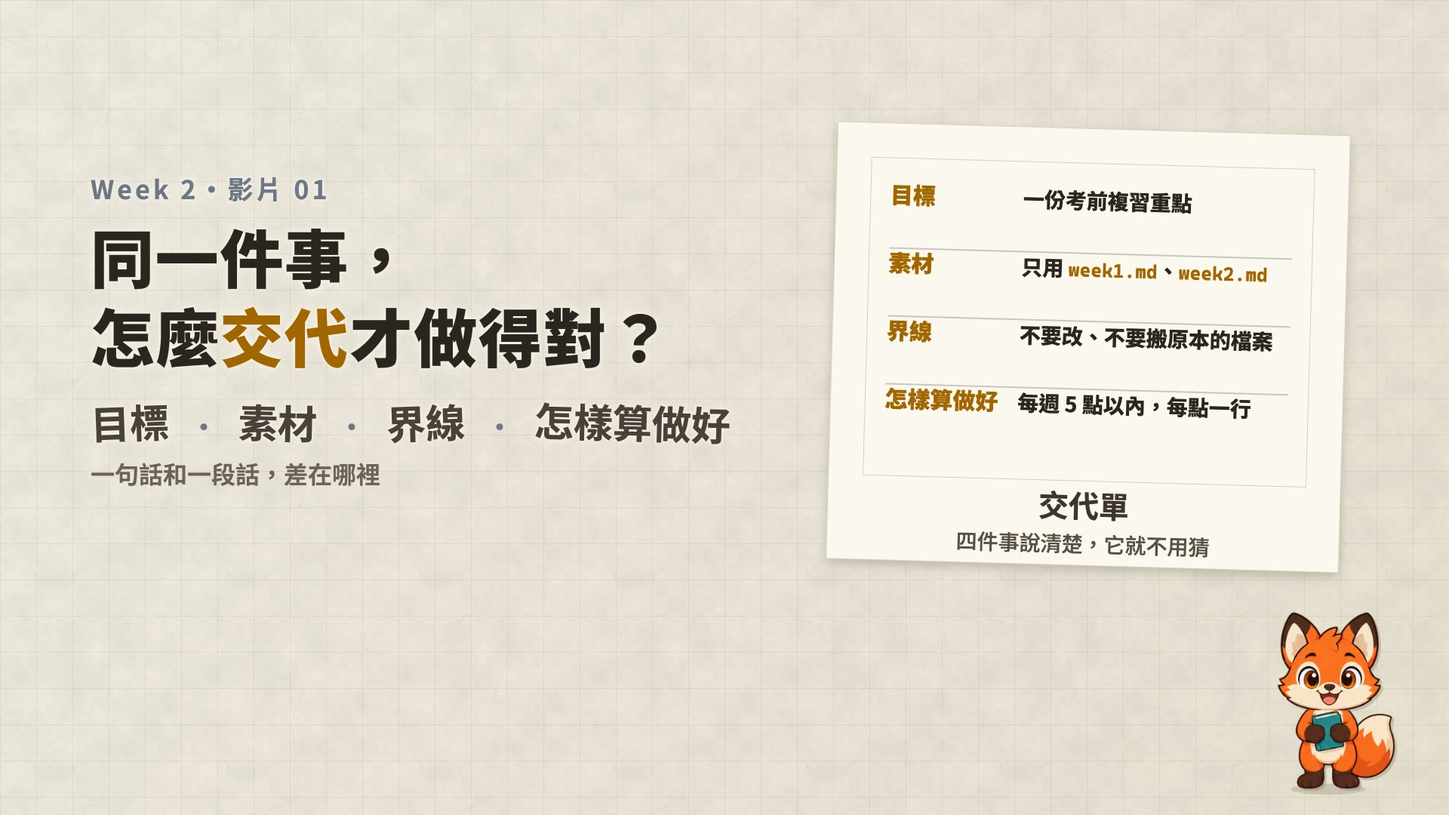
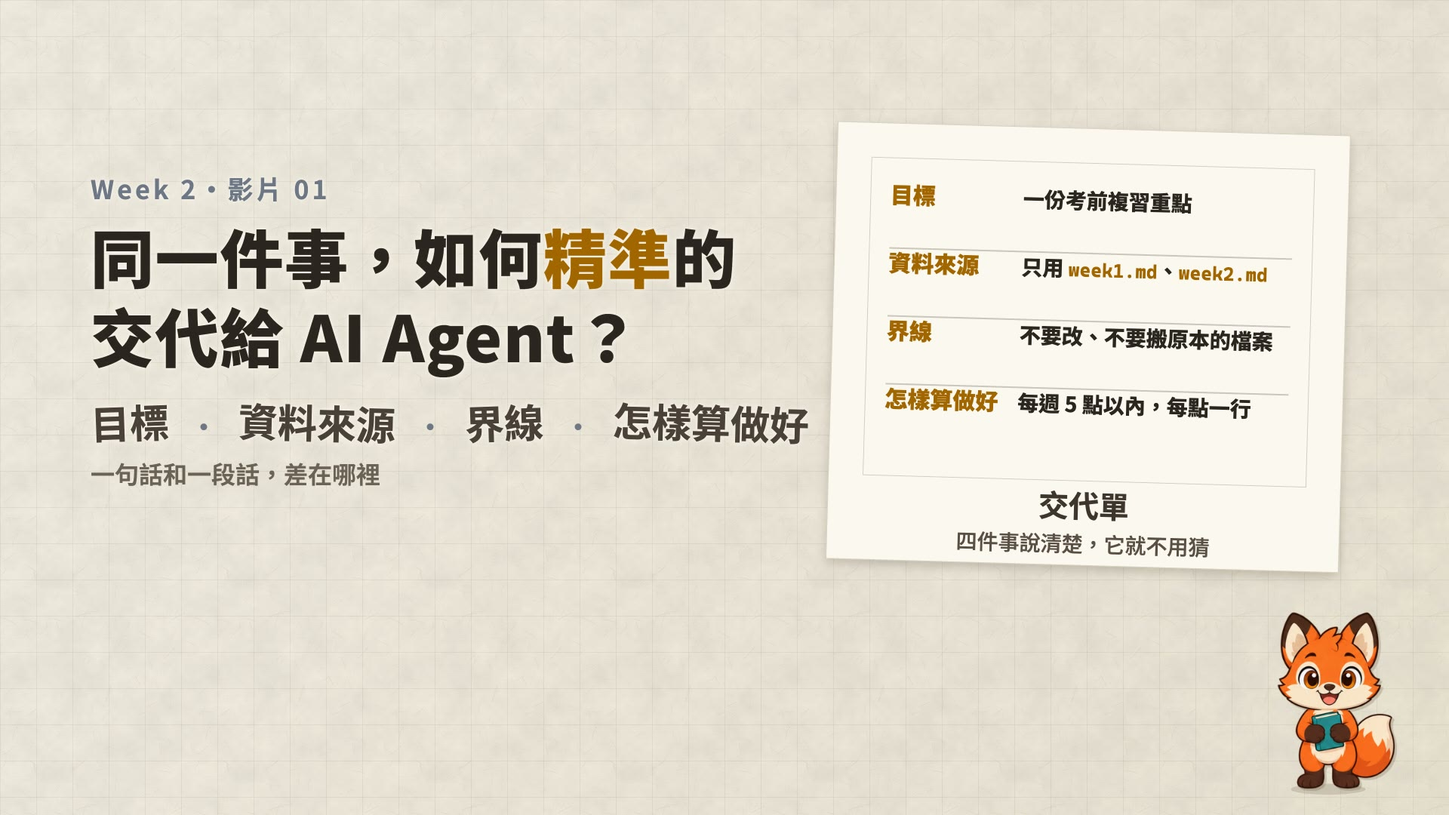
Week 2 round 2: video 01 renamed 'How do you instruct an AI agent precisely?', 'data sources' instead of 'materials', a beat on whether its sources were right; extra 1 smaller unsaved dot; extra 2 explains 5-hour and weekly limits and the Free Plan's monthly quota; 7 min 15 s

Changed region(s): [[0.0625, 0.275, 0.5312, 0.4583], [0.1562, 0.4889, 0.5625, 0.55], [0.5938, 0.3056, 0.6875, 0.3361]]

diff --git a/weeks/week02/index.html b/weeks/week02/index.html
@@ -13,10 +13,10 @@
   data-zh-hans="Week 2｜开始用 Codex"
   data-en="Week 2 | Getting Started with Codex"
   data-vi="Tuần 2 | Bắt đầu dùng Codex">Week 2｜開始用 Codex</title>
-<meta name="description" content="Week 2：開始用 Codex。交代清楚四件事（目標、素材、界線、怎樣算做好），它就不用猜；它動你的電腦之前會先問你，看懂再按，密碼和別人的個資不要交給它。補充：用 VS Code 看、改 AI 寫的 .md，以及 AI 為什麼會說錯。" data-i18n-attr="content"
-  data-zh-hans="Week 2：开始用 Codex。交代清楚四件事（目标、素材、界线、怎样算做好），它就不用猜；它动你的电脑之前会先问你，看懂再按，密码和别人的个人资料不要交给它。补充：用 VS Code 看、改 AI 写的 .md，以及 AI 为什么会说错。"
-  data-en="Week 2: getting started with Codex. State four things clearly (goal, materials, limits, what counts as done) and it does not have to guess; before it acts on your computer it asks you first, so read before you approve, and never hand it passwords or other people&#x27;s personal data. Extras: reading and editing the .md files AI writes in VS Code, and why AI gets things wrong."
-  data-vi="Tuần 2: bắt đầu dùng Codex. Nói rõ bốn điều (mục tiêu, tư liệu, giới hạn, thế nào là xong) thì nó không phải đoán; trước khi tác động lên máy tính, nó sẽ hỏi bạn trước, hãy đọc hiểu rồi mới bấm, và đừng đưa nó mật khẩu hay dữ liệu cá nhân của người khác. Bổ sung: xem và sửa các tệp .md do AI viết bằng VS Code, và vì sao AI nói sai.">
+<meta name="description" content="Week 2：開始用 Codex。交代清楚四件事（目標、資料來源、界線、怎樣算做好），它就不用猜；它動你的電腦之前會先問你，看懂再按，密碼和別人的個資不要交給它。補充：用 VS Code 看、改 AI 寫的 .md，以及 AI 為什麼會說錯。" data-i18n-attr="content"
+  data-zh-hans="Week 2：开始用 Codex。交代清楚四件事（目标、资料来源、界线、怎样算做好），它就不用猜；它动你的电脑之前会先问你，看懂再按，密码和别人的个人资料不要交给它。补充：用 VS Code 看、改 AI 写的 .md，以及 AI 为什么会说错。"
+  data-en="Week 2: getting started with Codex. State four things clearly (goal, data sources, limits, what counts as done) and it does not have to guess; before it acts on your computer it asks you first, so read before you approve, and never hand it passwords or other people&#x27;s personal data. Extras: reading and editing the .md files AI writes in VS Code, and why AI gets things wrong."
+  data-vi="Tuần 2: bắt đầu dùng Codex. Nói rõ bốn điều (mục tiêu, nguồn dữ liệu, giới hạn, thế nào là xong) thì nó không phải đoán; trước khi tác động lên máy tính, nó sẽ hỏi bạn trước, hãy đọc hiểu rồi mới bấm, và đừng đưa nó mật khẩu hay dữ liệu cá nhân của người khác. Bổ sung: xem và sửa các tệp .md do AI viết bằng VS Code, và vì sao AI nói sai.">
 <meta name="author" content="JUNHAO CHEN">
 <meta name="copyright" content="© 2026 JUNHAO CHEN">
 <link rel="preconnect" href="https://fonts.googleapis.com">
@@ -49,9 +49,9 @@
         data-en="Getting Started with Codex"
         data-vi="Bắt đầu dùng Codex">開始用 Codex</h1>
       <p class="lede" data-i18n
-        data-zh-hans="Codex 已经装好了，这周开始真的用它。先学怎么交代：同一件事，说清楚四件事（目标、素材、界线、怎样算做好），它就不用猜，你验收也有标准。再学它动你的电脑之前会先问你：看懂它在问什么再按，刚开始用 Ask for approval，密码和别人的个人资料不要交给它。两个补充：用 VS Code 看、改 AI 写的 .md 文件，以及 AI 为什么会很有把握地说错。"
-        data-en="Codex is installed, so this week you start using it for real. First, how to ask: for any task, state four things clearly (goal, materials, limits, what counts as done) so it does not have to guess and you have a standard to check against. Then, before it acts on your computer it asks you first: understand what it is asking before you approve, start with Ask for approval, and never hand it passwords or other people&#x27;s personal data. Two extras: reading and editing the .md files AI writes in VS Code, and why AI can be confidently wrong."
-        data-vi="Codex đã cài xong, tuần này bắt đầu dùng thật. Trước hết là cách dặn việc: với cùng một việc, nói rõ bốn điều (mục tiêu, tư liệu, giới hạn, thế nào là xong) thì nó không phải đoán, và bạn cũng có tiêu chuẩn để nghiệm thu. Sau đó, trước khi tác động lên máy tính, nó sẽ hỏi bạn trước: hiểu nó đang hỏi gì rồi mới bấm, lúc đầu hãy dùng Ask for approval, và đừng đưa nó mật khẩu hay dữ liệu cá nhân của người khác. Hai phần bổ sung: xem và sửa các tệp .md do AI viết bằng VS Code, và vì sao AI có thể nói sai một cách rất tự tin.">Codex 已經裝好了，這週開始真的用它。先學怎麼交代：同一件事，說清楚四件事（目標、素材、界線、怎樣算做好），它就不用猜，你驗收也有標準。再學它動你的電腦之前會先問你：看懂它在問什麼再按，剛開始用 Ask for approval，密碼和別人的個資不要交給它。兩支補充：用 VS Code 看、改 AI 寫的 .md 檔，以及 AI 為什麼會很有把握地說錯。</p>
+        data-zh-hans="Codex 已经装好了，这周开始真的用它。先学怎么交代：同一件事，说清楚四件事（目标、资料来源、界线、怎样算做好），它就不用猜，你验收也有标准。再学它动你的电脑之前会先问你：看懂它在问什么再按，刚开始用 Ask for approval，密码和别人的个人资料不要交给它。两个补充：用 VS Code 看、改 AI 写的 .md 文件，以及 AI 为什么会很有把握地说错。"
+        data-en="Codex is installed, so this week you start using it for real. First, how to ask: for any task, state four things clearly (goal, data sources, limits, what counts as done) so it does not have to guess and you have a standard to check against. Then, before it acts on your computer it asks you first: understand what it is asking before you approve, start with Ask for approval, and never hand it passwords or other people&#x27;s personal data. Two extras: reading and editing the .md files AI writes in VS Code, and why AI can be confidently wrong."
+        data-vi="Codex đã cài xong, tuần này bắt đầu dùng thật. Trước hết là cách dặn việc: với cùng một việc, nói rõ bốn điều (mục tiêu, nguồn dữ liệu, giới hạn, thế nào là xong) thì nó không phải đoán, và bạn cũng có tiêu chuẩn để nghiệm thu. Sau đó, trước khi tác động lên máy tính, nó sẽ hỏi bạn trước: hiểu nó đang hỏi gì rồi mới bấm, lúc đầu hãy dùng Ask for approval, và đừng đưa nó mật khẩu hay dữ liệu cá nhân của người khác. Hai phần bổ sung: xem và sửa các tệp .md do AI viết bằng VS Code, và vì sao AI có thể nói sai một cách rất tự tin.">Codex 已經裝好了，這週開始真的用它。先學怎麼交代：同一件事，說清楚四件事（目標、資料來源、界線、怎樣算做好），它就不用猜，你驗收也有標準。再學它動你的電腦之前會先問你：看懂它在問什麼再按，剛開始用 Ask for approval，密碼和別人的個資不要交給它。兩支補充：用 VS Code 看、改 AI 寫的 .md 檔，以及 AI 為什麼會很有把握地說錯。</p>
       <p class="lang-note" data-ui="video.note"></p>
     </div>
 
@@ -61,9 +61,9 @@
 
     <section class="unit" id="01-clear-ask" aria-labelledby="u01-title">
       <h2 class="unit-title" id="u01-title"><span class="unit-num" data-ui="video.n" data-n="01">影片 01</span><span data-i18n
-        data-zh-hans="同一件事，怎么交代才做得对？目标、素材、界线、怎样算做好"
-        data-en="One Task: How Do You Ask So It Gets Done Right? Goal, Materials, Limits, What Counts as Done"
-        data-vi="Cùng một việc, dặn thế nào để làm đúng? Mục tiêu, tư liệu, giới hạn, thế nào là xong">同一件事，怎麼交代才做得對？目標、素材、界線、怎樣算做好</span></h2>
+        data-zh-hans="同一件事，如何精准地交代给 AI Agent？"
+        data-en="One Task: How Do You Instruct an AI Agent Precisely?"
+        data-vi="Cùng một việc, làm sao giao việc thật chính xác cho AI Agent?">同一件事，如何精準的交代給 AI Agent？</span></h2>
 
       <div class="film">
         <div class="player">
@@ -75,27 +75,28 @@
 
       <ol class="chapters" aria-label="影片片段（點了直接跳到那一段）" data-ui-attr="aria-label:video.chapters">
         <li><button type="button" data-t="0"><span class="k">00:00</span><span class="t" data-i18n data-zh-hans="开场" data-en="Opening" data-vi="Mở đầu">開場</span></button></li>
-        <li><button type="button" data-t="7"><span class="k">00:07</span><span class="t" data-i18n data-zh-hans="一句话：它只能用猜的" data-en="One sentence: it can only guess" data-vi="Một câu: nó chỉ có thể đoán">一句話：它只能用猜的</span></button></li>
-        <li><button type="button" data-t="24"><span class="k">00:24</span><span class="t" data-i18n data-zh-hans="它搬了文件，连期末报告也改了" data-en="It moved files and even changed the final report" data-vi="Nó chuyển tệp, sửa luôn cả báo cáo cuối kỳ">它搬了檔案，連期末報告也改了</span></button></li>
-        <li><button type="button" data-t="31"><span class="k">00:31</span><span class="t" data-i18n data-zh-hans="交代清楚：四件事" data-en="Asking clearly: four things" data-vi="Dặn rõ ràng: bốn điều">交代清楚：四件事</span></button></li>
-        <li><button type="button" data-t="39"><span class="k">00:39</span><span class="t" data-i18n data-zh-hans="交代 Codex，也是同样的四件事" data-en="Asking Codex takes the same four things" data-vi="Dặn Codex cũng là bốn điều đó">交代 Codex，也是同樣的四件事</span></button></li>
-        <li><button type="button" data-t="47"><span class="k">00:47</span><span class="t" data-i18n data-zh-hans="怎样算做好：你验收的标准" data-en="What counts as done: your standard for checking" data-vi="Thế nào là xong: tiêu chuẩn để bạn nghiệm thu">怎樣算做好：你驗收的標準</span></button></li>
-        <li><button type="button" data-t="54"><span class="k">00:54</span><span class="t" data-i18n data-zh-hans="一段话：它照你的意思做" data-en="One paragraph: it does what you meant" data-vi="Một đoạn: nó làm đúng ý bạn">一段話：它照你的意思做</span></button></li>
-        <li><button type="button" data-t="76"><span class="k">01:16</span><span class="t" data-i18n data-zh-hans="只多了一个文件，原本的都没动" data-en="Only one new file; the originals are untouched" data-vi="Chỉ thêm một tệp, các tệp cũ không bị đụng">只多了一個檔案，原本的都沒動</span></button></li>
-        <li><button type="button" data-t="82"><span class="k">01:22</span><span class="t" data-i18n data-zh-hans="验收：用你说的标准" data-en="Check it against the standard you set" data-vi="Nghiệm thu theo tiêu chuẩn bạn đặt">驗收：用你說的標準</span></button></li>
-        <li><button type="button" data-t="103"><span class="k">01:43</span><span class="t" data-i18n data-zh-hans="怎样算做好，由你决定" data-en="You decide what counts as done" data-vi="Thế nào là xong, do bạn quyết định">怎樣算做好，由你決定</span></button></li>
-        <li><button type="button" data-t="106"><span class="k">01:46</span><span class="t" data-i18n data-zh-hans="结尾" data-en="Wrap-up" data-vi="Kết">結尾</span></button></li>
+        <li><button type="button" data-t="7"><span class="k">00:07</span><span class="t" data-i18n data-zh-hans="如果只说一句话：AI 只能用猜的" data-en="Just one sentence: the AI can only guess" data-vi="Nếu chỉ nói một câu: AI chỉ có thể đoán">如果只說一句話：AI 只能用猜的</span></button></li>
+        <li><button type="button" data-t="25"><span class="k">00:25</span><span class="t" data-i18n data-zh-hans="它搬了文件，连期末报告也改了" data-en="It moved files and even changed the final report" data-vi="Nó chuyển tệp, sửa luôn cả báo cáo cuối kỳ">它搬了檔案，連期末報告也改了</span></button></li>
+        <li><button type="button" data-t="32"><span class="k">00:32</span><span class="t" data-i18n data-zh-hans="资料整理的来源正确吗？" data-en="Were the sources it used even right?" data-vi="Nguồn dữ liệu nó dùng có đúng không?">資料整理的來源正確嗎？</span></button></li>
+        <li><button type="button" data-t="39"><span class="k">00:39</span><span class="t" data-i18n data-zh-hans="交代清楚：四件事" data-en="Asking clearly: four things" data-vi="Dặn rõ ràng: bốn điều">交代清楚：四件事</span></button></li>
+        <li><button type="button" data-t="46"><span class="k">00:46</span><span class="t" data-i18n data-zh-hans="交代 Codex，也是同样的四件事" data-en="Asking Codex takes the same four things" data-vi="Dặn Codex cũng là bốn điều đó">交代 Codex，也是同樣的四件事</span></button></li>
+        <li><button type="button" data-t="54"><span class="k">00:54</span><span class="t" data-i18n data-zh-hans="怎样算做好：你验收的标准" data-en="What counts as done: your standard for checking" data-vi="Thế nào là xong: tiêu chuẩn để bạn nghiệm thu">怎樣算做好：你驗收的標準</span></button></li>
+        <li><button type="button" data-t="61"><span class="k">01:01</span><span class="t" data-i18n data-zh-hans="一段话：它照你的意思做" data-en="One paragraph: it does what you meant" data-vi="Một đoạn: nó làm đúng ý bạn">一段話：它照你的意思做</span></button></li>
+        <li><button type="button" data-t="83"><span class="k">01:23</span><span class="t" data-i18n data-zh-hans="只多了一个文件，原本的都没动" data-en="Only one new file; the originals are untouched" data-vi="Chỉ thêm một tệp, các tệp cũ không bị đụng">只多了一個檔案，原本的都沒動</span></button></li>
+        <li><button type="button" data-t="90"><span class="k">01:30</span><span class="t" data-i18n data-zh-hans="验收：用你说的标准" data-en="Check it against the standard you set" data-vi="Nghiệm thu theo tiêu chuẩn bạn đặt">驗收：用你說的標準</span></button></li>
+        <li><button type="button" data-t="111"><span class="k">01:51</span><span class="t" data-i18n data-zh-hans="怎样算做好，由你决定" data-en="You decide what counts as done" data-vi="Thế nào là xong, do bạn quyết định">怎樣算做好，由你決定</span></button></li>
+        <li><button type="button" data-t="114"><span class="k">01:54</span><span class="t" data-i18n data-zh-hans="结尾" data-en="Wrap-up" data-vi="Kết">結尾</span></button></li>
       </ol>
 
       <ol class="points">
         <li><p data-i18n
-          data-zh-hans="&lt;strong&gt;一句话，它只能用猜的。&lt;/strong&gt;小安要准备考试，跟 Codex 说“帮我整理笔记”。“整理”是什么意思，它不知道，只能自己猜：把文件搬进 &lt;code&gt;整理/&lt;/code&gt;、改了标题和格式，连期末报告草稿都一起改了。小安要的，其实是一份考前复习重点。"
-          data-en="&lt;strong&gt;With one sentence, it can only guess.&lt;/strong&gt; Preparing for an exam, Xiao An tells Codex “Organise my notes.” What does “organise” mean? It does not know, so it guesses: it moves the files into &lt;code&gt;整理/&lt;/code&gt;, rewrites their headings and format, and even changes the final report draft. What Xiao An actually wanted was one set of revision notes for the exam."
-          data-vi="&lt;strong&gt;Chỉ một câu, nó đành phải đoán.&lt;/strong&gt; Tiểu An chuẩn bị thi, nói với Codex “Sắp xếp ghi chú giúp mình”. “Sắp xếp” nghĩa là gì, nó không biết, nên tự đoán: chuyển các tệp vào &lt;code&gt;整理/&lt;/code&gt;, sửa tiêu đề và định dạng, sửa luôn cả bản nháp báo cáo cuối kỳ. Thứ Tiểu An thật sự cần là một bản tóm tắt ôn thi."><strong>一句話，它只能用猜的。</strong>小安要準備考試，跟 Codex 說「幫我整理筆記」。「整理」是什麼意思，它不知道，只能自己猜：把檔案搬進 <code>整理/</code>、改了標題和格式，連期末報告草稿都一起改了。小安要的，其實是一份考前複習重點。</p></li>
+          data-zh-hans="&lt;strong&gt;一句话，它只能用猜的。&lt;/strong&gt;小安要准备考试，跟 Codex 说“帮我整理笔记”。“整理”是什么意思，它不知道，只能自己猜：把文件搬进 &lt;code&gt;整理/&lt;/code&gt;、改了标题和格式，连期末报告草稿都一起改了。它读的文件里还有期末报告草稿：我们甚至不能肯定，资料整理的来源是否正确。小安要的，其实是一份考前复习重点。"
+          data-en="&lt;strong&gt;With one sentence, it can only guess.&lt;/strong&gt; Preparing for an exam, Xiao An tells Codex “Organise my notes.” What does “organise” mean? It does not know, so it guesses: it moves the files into &lt;code&gt;整理/&lt;/code&gt;, rewrites their headings and format, and even changes the final report draft. It also read the final report draft, so we cannot even be sure the sources behind its notes are right. What Xiao An actually wanted was one set of revision notes for the exam."
+          data-vi="&lt;strong&gt;Chỉ một câu, nó đành phải đoán.&lt;/strong&gt; Tiểu An chuẩn bị thi, nói với Codex “Sắp xếp ghi chú giúp mình”. “Sắp xếp” nghĩa là gì, nó không biết, nên tự đoán: chuyển các tệp vào &lt;code&gt;整理/&lt;/code&gt;, sửa tiêu đề và định dạng, sửa luôn cả bản nháp báo cáo cuối kỳ. Nó còn đọc cả bản nháp báo cáo cuối kỳ, nên ta thậm chí không chắc nguồn dữ liệu nó dùng để tổng hợp có đúng không. Thứ Tiểu An thật sự cần là một bản tóm tắt ôn thi."><strong>一句話，它只能用猜的。</strong>小安要準備考試，跟 Codex 說「幫我整理筆記」。「整理」是什麼意思，它不知道，只能自己猜：把檔案搬進 <code>整理/</code>、改了標題和格式，連期末報告草稿都一起改了。它讀的檔案裡還有期末報告草稿：我們甚至不能肯定，資料整理的來源是否正確。小安要的，其實是一份考前複習重點。</p></li>
         <li><p data-i18n
-          data-zh-hans="&lt;strong&gt;交代清楚四件事。&lt;/strong&gt;目标（要做出什么）、素材（用什么、在哪里）、界线（什么不能碰）、怎样算做好（你等一下怎么验收）。就像请朋友帮你买午餐：一个排骨便当、钱在这里、不要辣、12:10 前放我桌上。交代 Codex 也是同样的四件事。"
-          data-en="&lt;strong&gt;State four things clearly.&lt;/strong&gt; The goal (what to make), the materials (what to use and where it is), the limits (what must not be touched) and what counts as done (how you will check it). It is like asking a friend to buy you lunch: a pork chop bento, here is the money, not spicy, on my desk by 12:10. Asking Codex takes the same four things."
-          data-vi="&lt;strong&gt;Nói rõ bốn điều.&lt;/strong&gt; Mục tiêu (làm ra cái gì), tư liệu (dùng gì, ở đâu), giới hạn (cái gì không được đụng) và thế nào là xong (lát nữa bạn nghiệm thu thế nào). Giống như nhờ bạn mua cơm trưa: một hộp cơm sườn, tiền đây, đừng cay, đặt lên bàn mình trước 12:10. Dặn Codex cũng là bốn điều đó."><strong>交代清楚四件事。</strong>目標（要做出什麼）、素材（用什麼、在哪裡）、界線（什麼不能碰）、怎樣算做好（你等一下怎麼驗收）。就像請朋友幫你買午餐：一個排骨便當、錢在這裡、不要辣、12:10 前放我桌上。交代 Codex 也是同樣的四件事。</p></li>
+          data-zh-hans="&lt;strong&gt;交代清楚四件事。&lt;/strong&gt;目标（要做出什么）、资料来源（用哪些资料、在哪里）、界线（什么不能碰）、怎样算做好（你等一下怎么验收）。就像请朋友帮你买午餐：一个排骨便当、去校门口那家买、不要辣、12:10 前放我桌上。交代 Codex 也是同样的四件事。"
+          data-en="&lt;strong&gt;State four things clearly.&lt;/strong&gt; The goal (what to make), the data sources (which data to use and where it is), the limits (what must not be touched) and what counts as done (how you will check it). It is like asking a friend to buy you lunch: a pork chop bento, from the shop by the school gate, not spicy, on my desk by 12:10. Asking Codex takes the same four things."
+          data-vi="&lt;strong&gt;Nói rõ bốn điều.&lt;/strong&gt; Mục tiêu (làm ra cái gì), nguồn dữ liệu (dùng dữ liệu nào, ở đâu), giới hạn (cái gì không được đụng) và thế nào là xong (lát nữa bạn nghiệm thu thế nào). Giống như nhờ bạn mua cơm trưa: một hộp cơm sườn, mua ở quán cổng trường, đừng cay, đặt lên bàn mình trước 12:10. Dặn Codex cũng là bốn điều đó."><strong>交代清楚四件事。</strong>目標（要做出什麼）、資料來源（用哪些資料、在哪裡）、界線（什麼不能碰）、怎樣算做好（你等一下怎麼驗收）。就像請朋友幫你買午餐：一個排骨便當、去校門口那家買、不要辣、12:10 前放我桌上。交代 Codex 也是同樣的四件事。</p></li>
         <li><p data-i18n
           data-zh-hans="&lt;strong&gt;一段话，它照你的意思做。&lt;/strong&gt;四件事一件一行：“帮我做一份考前复习重点，存成 複習重點.md。只用 week1.md 和 week2.md。不要改、不要搬原本的文件。每周 5 点以内、每点一行，最后列出我可能还不懂的地方。”这次它不用猜：只多了一个文件（&lt;code&gt;複習重點.md&lt;/code&gt; +19），原本的都没动。"
           data-en="&lt;strong&gt;With one paragraph, it does what you meant.&lt;/strong&gt; One line per thing: “Make me a set of revision notes for the exam and save it as 複習重點.md. Use only week1.md and week2.md. Do not change or move the original files. At most 5 points per week, one line each, and finish with a list of what I may still not understand.” This time it does not have to guess: there is only one new file (&lt;code&gt;複習重點.md&lt;/code&gt; +19) and the originals are untouched."
@@ -231,7 +232,7 @@
         <li><button type="button" data-t="60"><span class="k">01:00</span><span class="t" data-i18n data-zh-hans="请它找论文：第三篇查不到" data-en="Asked for papers: the third one does not exist" data-vi="Nhờ tìm bài báo: bài thứ ba không tra được">請它找論文：第三篇查不到</span></button></li>
         <li><button type="button" data-t="71"><span class="k">01:11</span><span class="t" data-i18n data-zh-hans="怎么办：附来源、自己点开、照清单验收" data-en="What to do: ask for sources, open them, check against your list" data-vi="Làm sao: đòi nguồn, tự mở xem, nghiệm thu theo danh sách">怎麼辦：附來源、自己點開、照清單驗收</span></button></li>
         <li><button type="button" data-t="74"><span class="k">01:14</span><span class="t" data-i18n data-zh-hans="用量，也是 token 算的" data-en="Usage is counted in tokens too" data-vi="Lượng dùng cũng tính bằng token">用量，也是 token 算的</span></button></li>
-        <li><button type="button" data-t="90"><span class="k">01:30</span><span class="t" data-i18n data-zh-hans="结尾" data-en="Wrap-up" data-vi="Kết">結尾</span></button></li>
+        <li><button type="button" data-t="95"><span class="k">01:35</span><span class="t" data-i18n data-zh-hans="结尾" data-en="Wrap-up" data-vi="Kết">結尾</span></button></li>
       </ol>
 
       <ol class="points">
@@ -252,9 +253,9 @@
           data-en="&lt;strong&gt;What to do.&lt;/strong&gt; Ask it to include its sources and open them yourself; for anything important, check it against your list. Sounding right is not the same as being right."
           data-vi="&lt;strong&gt;Làm sao.&lt;/strong&gt; Nhờ nó kèm nguồn, rồi tự mở ra xem; việc quan trọng thì nghiệm thu theo danh sách của bạn. Nghe có vẻ đúng không có nghĩa là đúng thật."><strong>怎麼辦。</strong>請它附上來源，自己點開看；重要的事，照你的清單驗收。聽起來對，不等於真的對。</p></li>
         <li><p data-i18n
-          data-zh-hans="&lt;strong&gt;用量，也是 token 算的。&lt;/strong&gt;你打的、它读的、它写的都算 token：读得越多、写得越多，用得越快。方案都有上限，用完了要等一段时间才恢复；Free Plan 目前够轻量的上课使用。"
-          data-en="&lt;strong&gt;Usage is counted in tokens too.&lt;/strong&gt; What you type, what it reads and what it writes all count: the more it reads and writes, the faster you use it up. Every plan has a limit, and once you hit it you wait a while before it resets; for now the Free Plan is enough for light class work."
-          data-vi="&lt;strong&gt;Lượng dùng cũng tính bằng token.&lt;/strong&gt; Những gì bạn gõ, nó đọc, nó viết đều tính: đọc càng nhiều, viết càng nhiều thì dùng càng nhanh. Gói nào cũng có giới hạn, dùng hết thì phải đợi một thời gian mới có lại; hiện tại Free Plan đủ cho việc học nhẹ nhàng trên lớp."><strong>用量，也是 token 算的。</strong>你打的、它讀的、它寫的都算 token：讀得越多、寫得越多，用得越快。方案都有上限，用完了要等一段時間才恢復；Free Plan 目前夠輕量的上課使用。</p></li>
+          data-zh-hans="&lt;strong&gt;用量，也是 token 算的。&lt;/strong&gt;你打的、它读的、它写的都算 token：读得越多、写得越多，用得越快。用量上限一般分成两种：每 5 小时、每 1 周，用完了要等时间到才恢复；Free Plan 则通常是一个月一定的额度，目前够轻量的上课使用。"
+          data-en="&lt;strong&gt;Usage is counted in tokens too.&lt;/strong&gt; What you type, what it reads and what it writes all count: the more it reads and writes, the faster you use it up. Usage limits usually come in two kinds, one per 5 hours and one per week, and once you hit one you wait for it to reset; the Free Plan usually gives a fixed amount per month, which for now is enough for light class work."
+          data-vi="&lt;strong&gt;Lượng dùng cũng tính bằng token.&lt;/strong&gt; Những gì bạn gõ, nó đọc, nó viết đều tính: đọc càng nhiều, viết càng nhiều thì dùng càng nhanh. Giới hạn lượng dùng thường có hai loại: mỗi 5 giờ và mỗi tuần, dùng hết thì phải đợi đến lúc được tính lại; Free Plan thường là một hạn mức cố định mỗi tháng, hiện tại đủ cho việc học nhẹ nhàng trên lớp."><strong>用量，也是 token 算的。</strong>你打的、它讀的、它寫的都算 token：讀得越多、寫得越多，用得越快。用量上限一般分成兩種：每 5 小時、每 1 週，用完了要等時間到才恢復；Free Plan 則通常是一個月一定的額度，目前夠輕量的上課使用。</p></li>
       </ol>
     </section>
 

diff --git a/assets/course.js b/assets/course.js
@@ -56,26 +56,26 @@
     2: {
       status: "ready",
       title: "開始用 Codex",
-      summary: "開始用 Codex：交代清楚四件事（目標、素材、界線、怎樣算做好），它就不用猜，你驗收也有標準；它動你的電腦之前會先問你，看懂再按，剛開始用 Ask for approval，密碼和別人的個資不要交給它。補充：用 VS Code 看、改 .md，以及 AI 為什麼會很有把握地說錯。",
+      summary: "開始用 Codex：交代清楚四件事（目標、資料來源、界線、怎樣算做好），它就不用猜，你驗收也有標準；它動你的電腦之前會先問你，看懂再按，剛開始用 Ask for approval，密碼和別人的個資不要交給它。補充：用 VS Code 看、改 .md，以及 AI 為什麼會很有把握地說錯。",
       href: "weeks/week02/",
       thumb: "weeks/week02/video/01-clear-ask/thumb.jpg",
       still: "weeks/week02/video/01-clear-ask/poster.jpg",
-      meta: "2 支影片＋2 支補充・共 7 分 3 秒",
+      meta: "2 支影片＋2 支補充・共 7 分 15 秒",
       i18n: {
         "zh-Hans": {
           title: "开始用 Codex",
-          summary: "开始用 Codex：交代清楚四件事（目标、素材、界线、怎样算做好），它就不用猜，你验收也有标准；它动你的电脑之前会先问你，看懂再按，刚开始用 Ask for approval，密码和别人的个人资料不要交给它。补充：用 VS Code 看、改 .md，以及 AI 为什么会很有把握地说错。",
-          meta: "2 个视频＋2 个补充・共 7 分 3 秒",
+          summary: "开始用 Codex：交代清楚四件事（目标、资料来源、界线、怎样算做好），它就不用猜，你验收也有标准；它动你的电脑之前会先问你，看懂再按，刚开始用 Ask for approval，密码和别人的个人资料不要交给它。补充：用 VS Code 看、改 .md，以及 AI 为什么会很有把握地说错。",
+          meta: "2 个视频＋2 个补充・共 7 分 15 秒",
         },
         en: {
           title: "Getting Started with Codex",
-          summary: "Getting started with Codex: state four things clearly (goal, materials, limits, what counts as done) so it does not have to guess and you have a standard to check against; before it acts on your computer it asks you first, so understand before you approve, start with Ask for approval, and never hand it passwords or other people's personal data. Extras: reading and editing .md files in VS Code, and why AI can be confidently wrong.",
-          meta: "2 videos + 2 extras · 7 min 3 s in total",
+          summary: "Getting started with Codex: state four things clearly (goal, data sources, limits, what counts as done) so it does not have to guess and you have a standard to check against; before it acts on your computer it asks you first, so understand before you approve, start with Ask for approval, and never hand it passwords or other people's personal data. Extras: reading and editing .md files in VS Code, and why AI can be confidently wrong.",
+          meta: "2 videos + 2 extras · 7 min 15 s in total",
         },
         vi: {
           title: "Bắt đầu dùng Codex",
-          summary: "Bắt đầu dùng Codex: nói rõ bốn điều (mục tiêu, tư liệu, giới hạn, thế nào là xong) thì nó không phải đoán, bạn cũng có tiêu chuẩn để nghiệm thu; trước khi tác động lên máy tính, nó sẽ hỏi bạn trước, hiểu rồi mới bấm, lúc đầu dùng Ask for approval, đừng đưa nó mật khẩu hay dữ liệu cá nhân của người khác. Bổ sung: xem và sửa tệp .md bằng VS Code, và vì sao AI có thể nói sai rất tự tin.",
-          meta: "2 video + 2 bổ sung · tổng cộng 7 phút 3 giây",
+          summary: "Bắt đầu dùng Codex: nói rõ bốn điều (mục tiêu, nguồn dữ liệu, giới hạn, thế nào là xong) thì nó không phải đoán, bạn cũng có tiêu chuẩn để nghiệm thu; trước khi tác động lên máy tính, nó sẽ hỏi bạn trước, hiểu rồi mới bấm, lúc đầu dùng Ask for approval, đừng đưa nó mật khẩu hay dữ liệu cá nhân của người khác. Bổ sung: xem và sửa tệp .md bằng VS Code, và vì sao AI có thể nói sai rất tự tin.",
+          meta: "2 video + 2 bổ sung · tổng cộng 7 phút 15 giây",
         },
       },
     },
